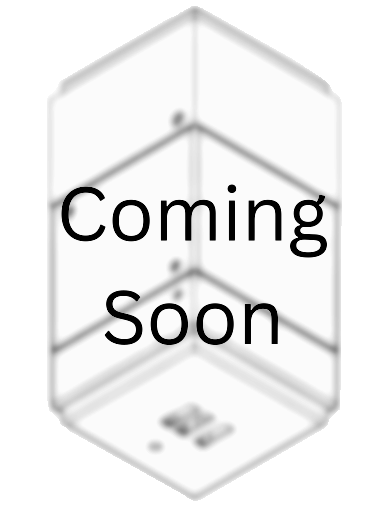
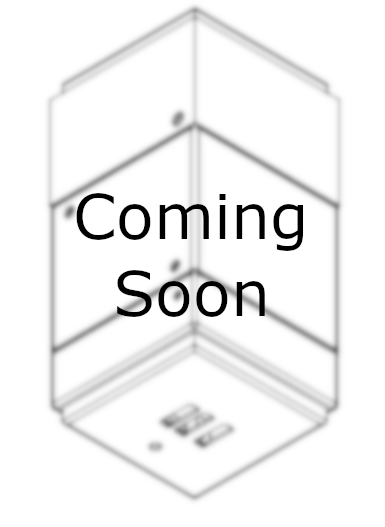
Made "Coming Soon" picture look better

Changed region(s): [[0.1558, 0.334, 0.8727, 0.5161], [0.2805, 0.4858, 0.7481, 0.6679]]

diff --git a/GUI_Windows/NanoLabGUI_v1_3a.py b/GUI_Windows/NanoLabGUI_v1_3a.py
@@ -254,7 +254,7 @@ def load_setup1():
 
 	# Universal
 	# Read the Image
-	image = Image.open(resource_path("assets\\Universal NanoLab.png"))
+	image = Image.open(resource_path("assets\\Coming Soon.png"))
 	# Resize the image using resize() method
 	resize_image = image.resize((270, 320))
 	logo_img = ImageTk.PhotoImage(resize_image)
